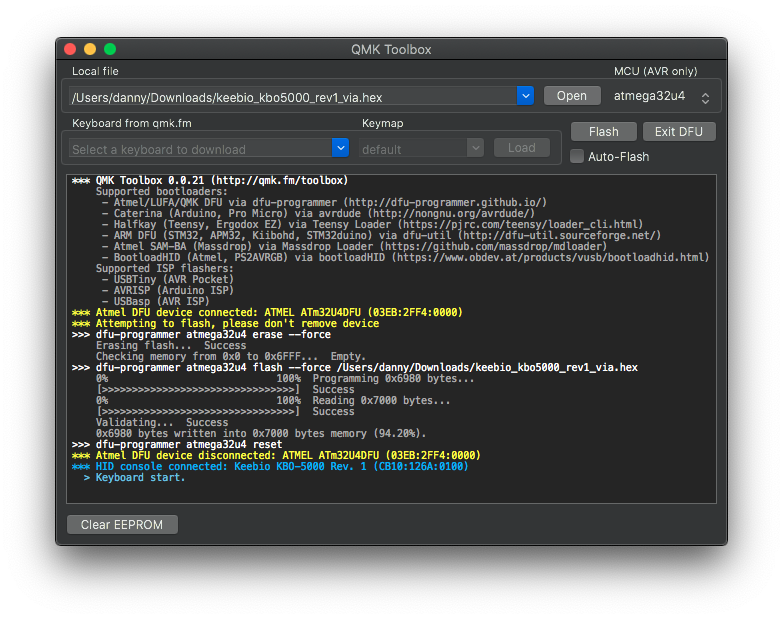
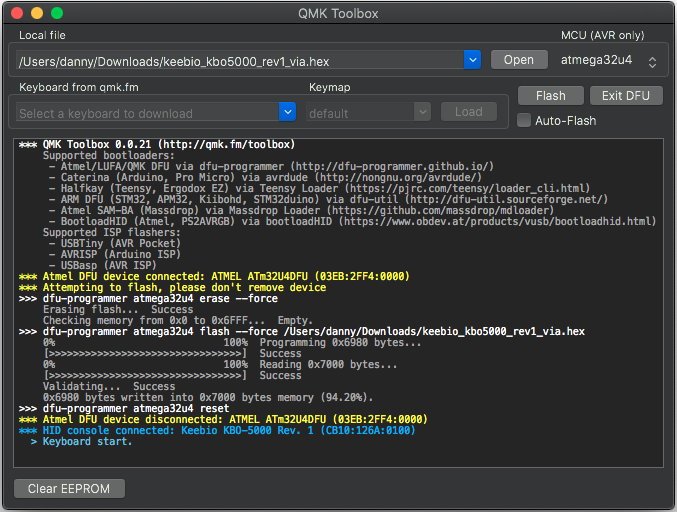
Add images for Windows flashing

diff --git a/docs/flashing-firmware.md b/docs/flashing-firmware.md
@@ -1,6 +1,7 @@
 ---
 title: Flashing Firmware
 ---
+
 ## Flashing - why?
 You can flash the microcontrollers (ATmega32u4, Pro Micro, Elite-C, etc) in your kit prior to building your keyboard to ensure that they are undamaged and functioning normally. 
 
@@ -50,9 +51,15 @@ Setting up the QMK build environment is beyond the scope of this guide, so if yo
 
 ### One-time Setup (Windows only)
 
-TODO: add info on setting up ATmega DFU Bootloader driver (libusb0)
+This section only applies to Windows, skip this if you are on a Mac, as there are no drivers needed for Mac.
 
-(For now, see [Driver Installation with Zadig](https://beta.docs.qmk.fm/using-qmk/guides/driver_installation_zadig) if having issues with driver installation)
+If you open up QMK Toolbox, press the reset button on your ATmega32u4-based board, and see `(NO DRIVER)` on the line for `Atmel DFU device connected`, then you'll need to install the bootloader driver on Windows.
+
+To install the DFU Bootloader driver, right-click anywhere in the top part of the QMK Toolbox window as shown below and click on `Install Drivers...`. The ATmega32u4 DFU Bootloader driver along with other bootloader drivers will be installed.
+
+![](./assets/images/flashing/windows-install-drivers.png)
+
+If you are having issues with driver installation, see [Driver Installation with Zadig](https://beta.docs.qmk.fm/using-qmk/guides/driver_installation_zadig).
 
 ### Flashing
 If you're on Windows or Mac, you can follow the procedure below.
@@ -67,9 +74,11 @@ If you're on Windows or Mac, you can follow the procedure below.
 - Now that your keymap file is loaded and your PCB is connected, click Flash
 - After flashing, your PCB will disconnect and it will exit bootloader 
   - This will give you another yellow line. 
-
-<!-- TODO: convert to tabs and have images for Windows/Mac -->
+#### Mac
 ![](./assets/images/flashing/mac-32u4-dfu.png)
+
+#### Windows
+![](./assets/images/flashing/windows-32u4-flashing.png)
 
 ## Flashing the Pro Micro (Caterina Bootloader)
 
@@ -95,9 +104,17 @@ If you're on Windows or Mac, you can follow the procedure below.
 
 ### One-time Setup (Windows only)
 
-TODO: add info on setting up STM32 DFU Bootloader driver (WinUSB), see https://docs.cannonkeys.com/satisfaction75/flashing/ as reference
+This section only applies to Windows, skip this if you are on a Mac, as there are no drivers needed for Mac.
 
-(For now, see [Driver Installation with Zadig](https://beta.docs.qmk.fm/using-qmk/guides/driver_installation_zadig) if having issues with driver installation)
+If you open up QMK Toolbox, press the reset button on your STM32-based board, and see `(NO DRIVER)` as shown below, then you'll need to install the bootloader driver on Windows.
+
+![](./assets/images/flashing/windows-stm32-no-driver.png)
+
+To install the STM32 Bootloader driver, right-click anywhere in the top part of the QMK Toolbox window as shown below and click on `Install Drivers...`. The STM32 Bootloader driver along with other bootloader drivers will be installed.
+
+![](./assets/images/flashing/windows-install-drivers.png)
+
+If you are having issues with driver installation, see [Driver Installation with Zadig](https://beta.docs.qmk.fm/using-qmk/guides/driver_installation_zadig).
 
 ### Flashing
 
@@ -109,7 +126,11 @@ TODO: add info on setting up STM32 DFU Bootloader driver (WinUSB), see https://d
 - Click Flash
 - You'll see many lines in gray, but then the second yellow line that has the word *disconnected* will confirm that your keyboard is now functioning.
 
+#### Mac
 ![](./assets/images/flashing/mac-stm32-dfu.png)
+
+#### Windows
+![](./assets/images/flashing/windows-stm32-flashing.png)
 
 <!--
 ## HID Console (TODO: rename section)
